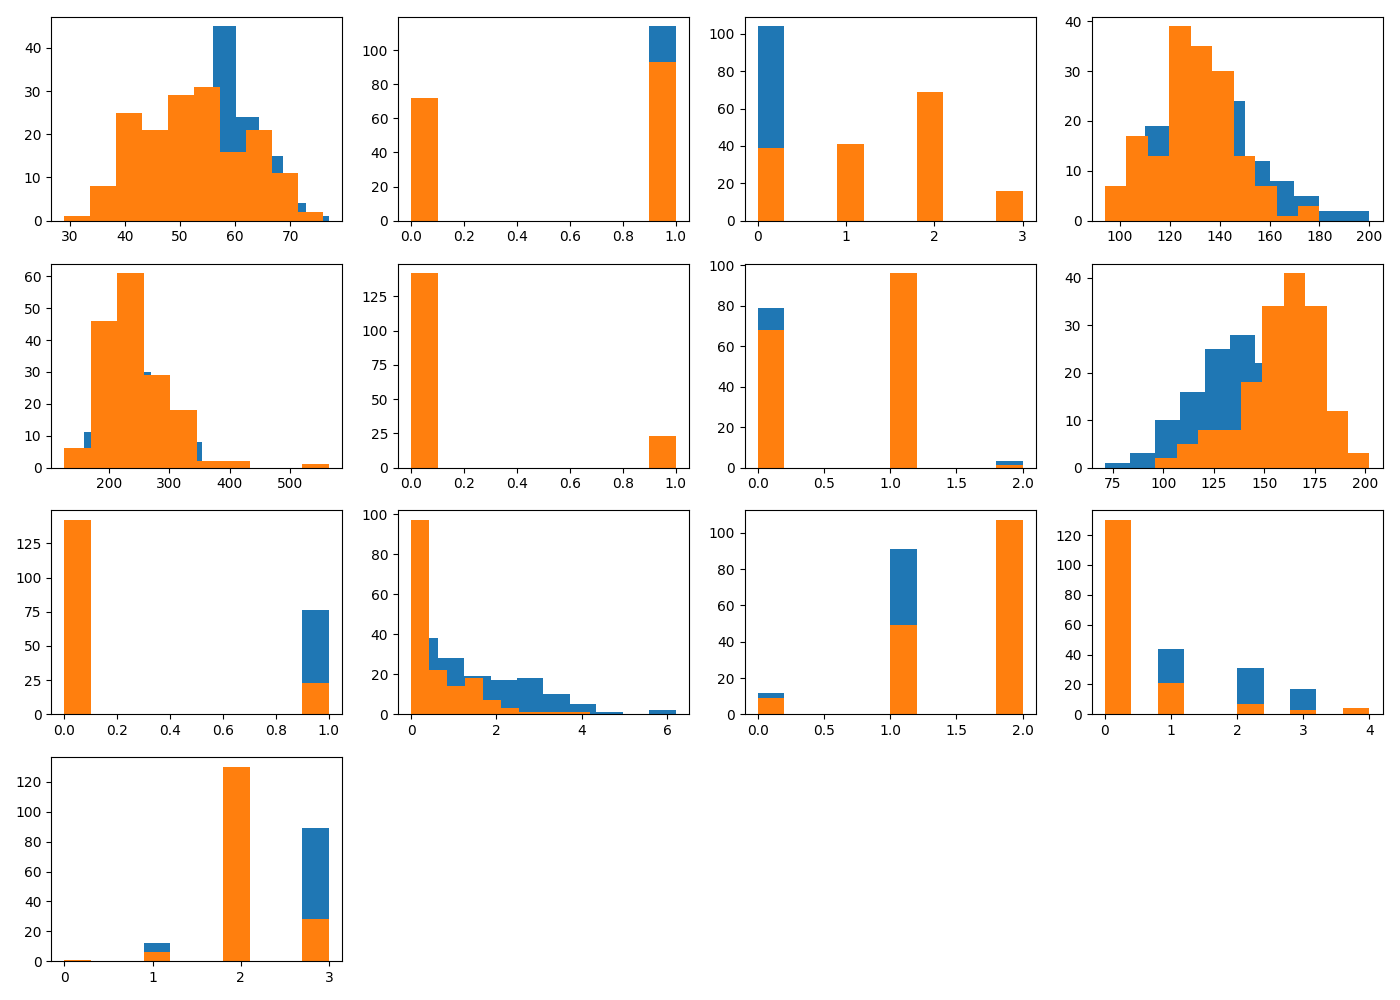
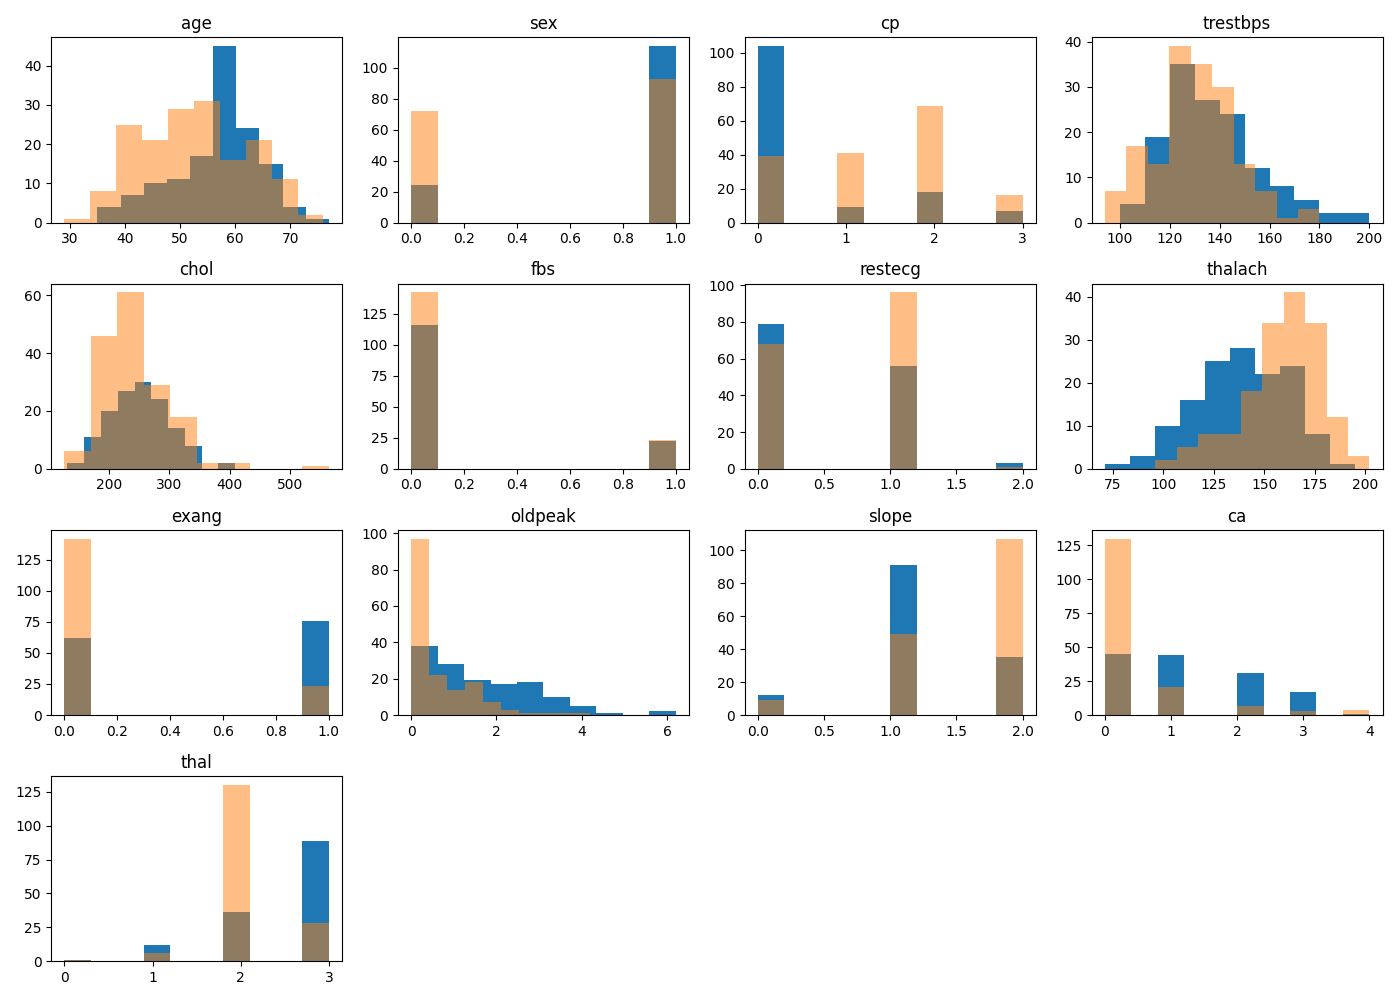
fixed_title

diff --git a/preprocessing.py b/preprocessing.py
@@ -36,7 +36,7 @@ for at in attr:
     plt.subplot2grid((4,4), (a,b))
     plt.hist(df0[at])
     plt.hist(df1[at], alpha=0.5)
-     plt.title("at")
+    plt.title(at)
     #plt.grid(False)
     b += 1
     if b == 4:
